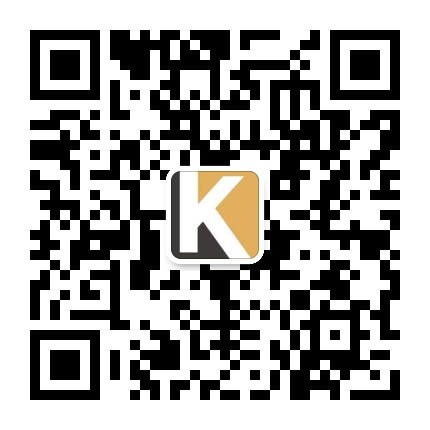
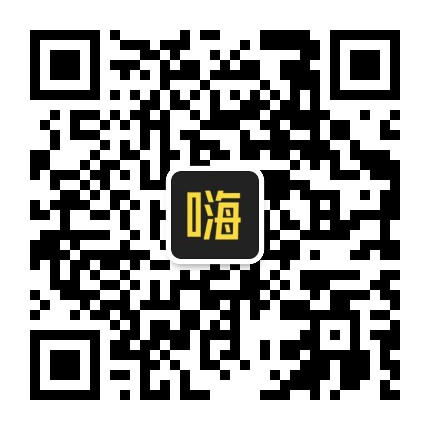
FAIR-1622 bug修改

diff --git a/src/app/view/base/app.ts b/src/app/view/base/app.ts
@@ -41,7 +41,7 @@ export class App extends Widget {
 
         this.props = {
             type: 2, // 用户可以单击选项，来切换卡片。支持3种模式，惰性加载0-隐藏显示切换，切换采用加载1-销毁模式，一次性加载2-隐藏显示切换。
-            isActive:'',
+            isActive:'APP_EARN',
             old: this.old,
             loading,
             allTabBar: {
@@ -93,9 +93,9 @@ export class App extends Widget {
         for (const item in this.props.allTabBar) {
             this.props.allTabBar[item];
             if (getModulConfig(this.props.allTabBar[item].modulName)) {
-                if (this.props.allTabBar[item].modulName === 'APP_WALLET') {
-                    this.props.isActive = 'APP_WALLET';
-                }
+                // if (this.props.allTabBar[item].modulName === 'APP_WALLET') {
+                //     this.props.isActive = 'APP_EARN';
+                // }
                 resList.push(this.props.allTabBar[item]);
             }   
         }

diff --git a/src/app/logic/native.ts b/src/app/logic/native.ts
@@ -135,9 +135,11 @@ export const preLoadAd = (adType?: number,cb?:(str1:string,str2:string) => void)
  * 观看广告
  * adtype:1.广点通  2.字节跳动
  */
-export const watchAd = (adType: number,cb?:(str1:string,str2:string) => void) => {
-    ADUnion.showRewardVideoAD(adType,(str1,str2) => {
-        cb && cb(str1,str2);
+// tslint:disable-next-line:no-reserved-keywords
+export const watchAd = (adType: number,cb?:(str1:string,type:number,str2:string) => void) => {
+    // tslint:disable-next-line:no-reserved-keywords
+    ADUnion.showRewardVideoAD(adType,(str1,type,str2) => {
+        cb && cb(str1,type,str2);
         preLoadAd();
     });
 };
@@ -156,6 +158,7 @@ export const chooseAdType = (cb:Function) => {
         }
         const len = ads.length;
         const index = Math.floor(Math.random() * 100) % len;
-        cb && cb(ads[index]);
+        const adType = ads[index] || (Math.random() > 0.5 ? 1 : 2);
+        cb && cb(adType);
     });
 };

diff --git a/src/app/net/login.ts b/src/app/net/login.ts
@@ -1,7 +1,6 @@
 /**
  * 钱包登录模块
  */
-
 import * as chatStore from '../../chat/client/app/data/store';
 import { getStore as earnGetStore,register as earnRegister } from '../../earn/client/app/store/memstore';
 import { closeCon, open, reopen, setBottomLayerReloginMsg, setReloginCallback, setUrl } from '../../pi/net/ui/con_mgr';
@@ -398,15 +397,13 @@ register('flags/level_2_page_loaded', (loaded: boolean) => {
 });
 
 // 聊天login
-console.log(11111111111111);
 export const registerStore = () => {
-    console.log(22222222222222222);
     // 钱包login
     register('user/isLogin', (loaded: boolean) => {
         setAllIsLogin();
     });
 
-// 赚钱login
+    // 赚钱login
     earnRegister('userInfo/isLogin', (isLogin: boolean) => {
         setAllIsLogin();
     });

diff --git a/src/app/net/reconnect.ts b/src/app/net/reconnect.ts
@@ -26,14 +26,17 @@ export const manualReconnect = () => {
         chat:false
     };
     if (!getStore('user/isLogin')) {
+        console.log('wallet is reconnecting');
         walletManualReconnect();
         reconnecting.wallet = true;
     }
     if (!earnGetStore('userInfo/isLogin')) {
+        console.log('earn is reconnecting');
         earnManualReconnect();
         reconnecting.earn = true;
     }
     if (!chatGetStore('isLogin')) {
+        console.log('chat is reconnecting');
         chatManualReconnect();
         reconnecting.chat = true;
     }

diff --git a/src/phoneRedEnvelope/download.html b/src/phoneRedEnvelope/download.html
@@ -12,7 +12,7 @@
     <div class="ga-new-page">
         <div class="ga-main">
             <img class="ga-logo" src="image/img_logo.png"/>
-            <div class="ga-title" id="title">KuPay安全的一站式资产管理平台</div>
+            <div class="ga-title" id="title">好嗨安全的一站式资产管理平台</div>
             <div class="ga-download-btn" onclick="downloadClick()" id="download">Android下载</div>
             <img class="ga-iosCode" src="image/IOS_down.png"/>
             <div class="ga-iosText">IOS扫码下载</div>

diff --git a/src/app/store/memstore.ts b/src/app/store/memstore.ts
@@ -593,7 +593,7 @@ const store: Store = {
     user: {
         id: '',                      // 该账号的id
         offline: false,               // 连接状态
-        isLogin: false,              // 登录状态
+        isLogin: true,              // 登录状态
         allIsLogin:false,            // 所有服务登录状态  (钱包  活动  聊天)
         token: '',                   // 自动登录token
         conRandom: '',               // 连接随机数

diff --git a/src/app/boot/next.js b/src/app/boot/next.js
@@ -119,8 +119,7 @@ winit.initNext = function () {
 			"app/net/login.js",
 			"app/net/push.js",
 			"earn/client/app/net/",
-			"chat/client/app/net/",
-			"chat/client/app/data/store.js",
+			"chat/client/app/net/"
 		];
 		util.loadDir(sourceList, flags, fm, undefined, function (fileMap) {
 			var tab = util.loadCssRes(fileMap);

diff --git a/src/app/components1/offlineTip/offlineTip.ts b/src/app/components1/offlineTip/offlineTip.ts
@@ -25,7 +25,6 @@ export class OfflineTip extends Widget {
     public reConnect() {
         if (this.state.reconnecting) return;
         this.state.reconnecting = true;   // 正在连接
-        console.log('reconnect');
         forelet.paint(this.state);
         
         manualReconnect();

diff --git a/src/app/boot/index.js b/src/app/boot/index.js
@@ -1,4 +1,4 @@
-// !version=0.1.33.112112
+// !version=0.1.38.112112
 // !updated=["支持Dapp","交易功能稳定","优化加载速度","全新界面UI，全新体验","修复账户相关bug"]
 // !appVersion=1.0.0
 

diff --git a/src/phoneRedEnvelope/main20181112.js b/src/phoneRedEnvelope/main20181112.js
@@ -35,7 +35,7 @@ const getWalletName = () =>{
     if(walletName){        
         return walletName;
     }else{
-        return 'KuPay';
+        return '好嗨';
     }
 }
 
